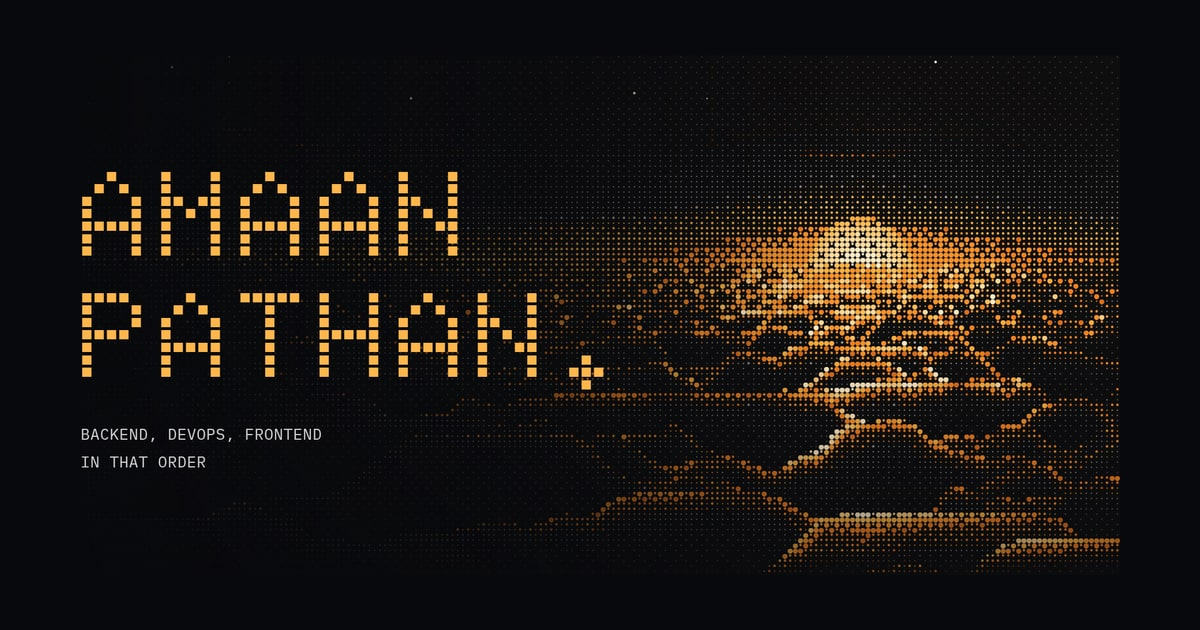
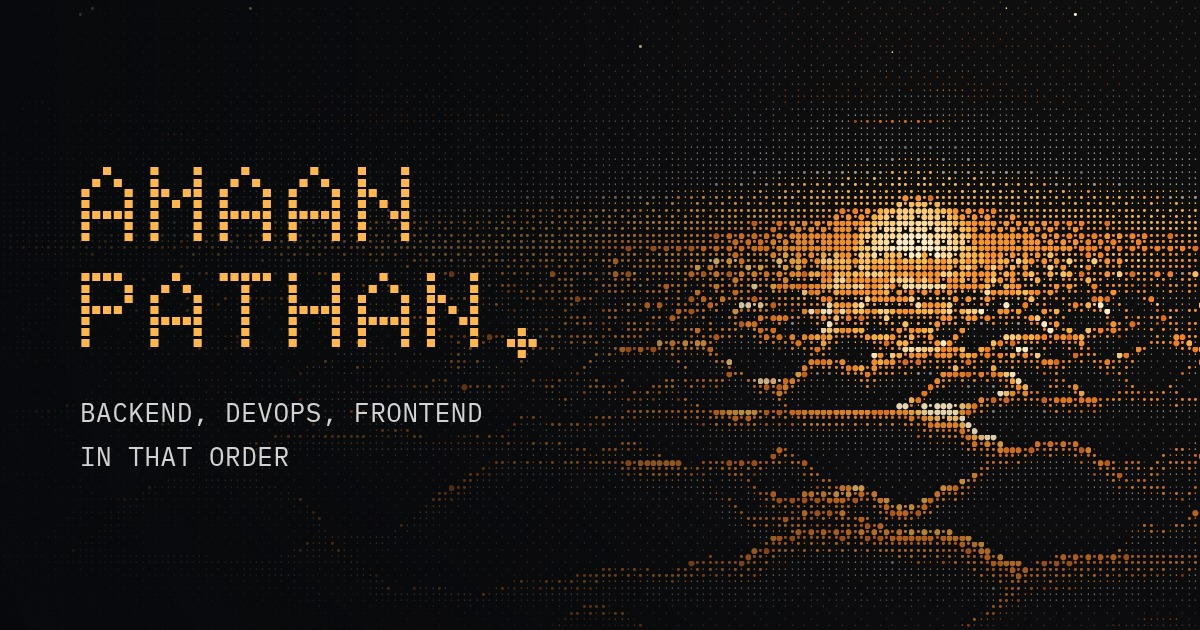
improved og image

Changed region(s): [[0.0617, 0.181, 1.0, 0.9651], [0.4625, 0.9048, 0.5242, 0.9349], [0.37, 0.754, 0.4008, 0.7841]]

diff --git a/scripts/og-card.html b/scripts/og-card.html
@@ -1,0 +1,120 @@
+<!doctype html>
+<!--
+  OG card render harness for the home page card (public/og-preview.jpg).
+
+  Mirrors the hero plate (ascii cloud-sea + scrim + name + bio) at the standard
+  1200x630 OG size. To re-render:
+    1. copy this file to public/og-card.html
+    2. with the dev server running, screenshot it at 1200x630:
+       node -e "const {chromium}=require('playwright-core');(async()=>{const b=await chromium.launch({channel:'chrome'});const p=await (await b.newContext({viewport:{width:1200,height:630},reducedMotion:'reduce'})).newPage();await p.goto('http://localhost:4321/og-card.html',{waitUntil:'networkidle'});await p.evaluate(()=>document.fonts.ready);await p.waitForTimeout(1500);await p.screenshot({path:'public/og-preview.jpg',type:'jpeg',quality:92});await b.close();})()"
+    3. delete public/og-card.html and bump ?v= in src/pages/index.astro
+-->
+<html lang="en">
+    <head>
+        <meta charset="utf-8" />
+        <title>OG card render</title>
+        <link rel="preconnect" href="https://fonts.googleapis.com" />
+        <link rel="preconnect" href="https://fonts.gstatic.com" crossorigin />
+        <link
+            href="https://fonts.googleapis.com/css2?family=Doto:ROND,wght@0,100..900;1,100..900&family=IBM+Plex+Mono:wght@400;500&display=swap"
+            rel="stylesheet"
+        />
+        <style>
+            html,
+            body {
+                margin: 0;
+            }
+            body {
+                width: 1200px;
+                height: 630px;
+                overflow: hidden;
+                background: #08090c;
+            }
+            .plate {
+                position: relative;
+                overflow: hidden;
+                width: 1200px;
+                height: 630px;
+                background: #08090c;
+            }
+            .art {
+                position: absolute;
+                top: 0;
+                left: 50%;
+                transform: translateX(-50%);
+                width: 1260px;
+                pointer-events: none;
+                user-select: none;
+            }
+            .art ascii-art {
+                display: block;
+                width: 100%;
+            }
+            .art canvas {
+                display: block;
+                width: 100%;
+                height: auto;
+            }
+            .scrim {
+                position: absolute;
+                inset: 0;
+                pointer-events: none;
+                background:
+                    linear-gradient(
+                        to right,
+                        rgba(8, 9, 12, 0.9),
+                        rgba(8, 9, 12, 0.52) 44%,
+                        rgba(8, 9, 12, 0) 72%
+                    ),
+                    linear-gradient(
+                        to top,
+                        rgba(8, 9, 12, 0.42),
+                        rgba(8, 9, 12, 0) 46%
+                    );
+            }
+            .content {
+                position: relative;
+                height: 100%;
+                padding: 0 0 0 80px;
+                display: flex;
+                flex-direction: column;
+                justify-content: center;
+            }
+            .name {
+                font-family: "Doto", monospace;
+                font-variation-settings: "ROND" 0;
+                font-size: 108px;
+                font-weight: 700;
+                letter-spacing: 0.04em;
+                line-height: 0.98;
+                text-transform: uppercase;
+                color: #ffb74d;
+            }
+            .bio {
+                font-family: "IBM Plex Mono", monospace;
+                font-size: 26px;
+                line-height: 1.7;
+                letter-spacing: 0.02em;
+                color: rgba(255, 255, 255, 0.82);
+                text-transform: uppercase;
+                margin-top: 26px;
+            }
+        </style>
+    </head>
+    <body>
+        <div class="plate">
+            <div class="art">
+                <ascii-art
+                    piece="cloud-sea"
+                    label="The sun sinking into a drifting sea of orange cloud at dusk"
+                ></ascii-art>
+            </div>
+            <div class="scrim"></div>
+            <div class="content">
+                <div class="name">Amaan<br />Pathan.</div>
+                <div class="bio">Backend, DevOps, Frontend<br />in that order</div>
+            </div>
+        </div>
+        <script type="module" src="/ascii/ascii.js"></script>
+    </body>
+</html>
